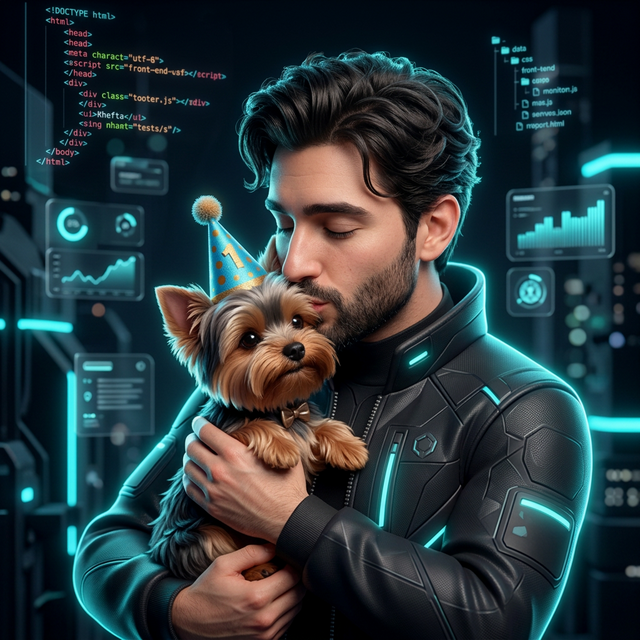
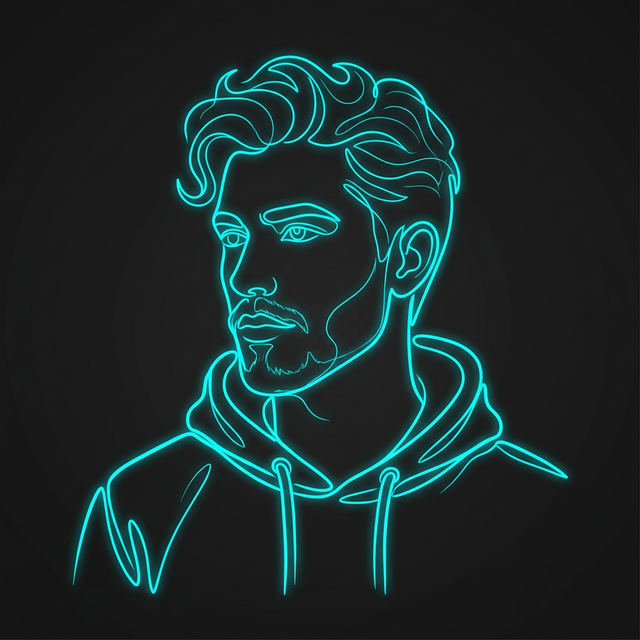
feat: replace profile photo with continuous line art and add css blend-mode for theme support

diff --git a/src/components/AboutSection.vue b/src/components/AboutSection.vue
@@ -26,7 +26,7 @@
               v-else 
               :src="imageSrc" 
               alt="Foto de perfil" 
-              class="w-full h-full object-cover transition-transform duration-500 group-hover:scale-105"
+              class="profile-image w-full h-full object-cover transition-transform duration-500 group-hover:scale-105"
               @error="handleImageError"
             />
         </div>
@@ -89,3 +89,22 @@ const imageSrc = computed(() => {
     return props.imagePath
 })
 </script>
+
+<style scoped>
+/* 
+  Magia de Blend Modes para el Avatar Line-Art:
+  El avatar generado tiene fondo negro y línea cyan neón.
+  - En Dark Mode: `screen` oculta el negro y deja el neón brillando sobre el bg-ink-900.
+  - En Light Mode: Invertimos los colores (el fondo negro se hace blanco y la línea cyan se hace roja), 
+    luego rotamos el hue 180deg para que la línea vuelva a ser cyan. 
+    Finalmente, usamos `multiply` para que el blanco desaparezca sobre el fondo claro. 
+*/
+.profile-image {
+  mix-blend-mode: screen;
+}
+
+:global(html.light) .profile-image {
+  mix-blend-mode: multiply;
+  filter: invert(1) hue-rotate(180deg);
+}
+</style>
